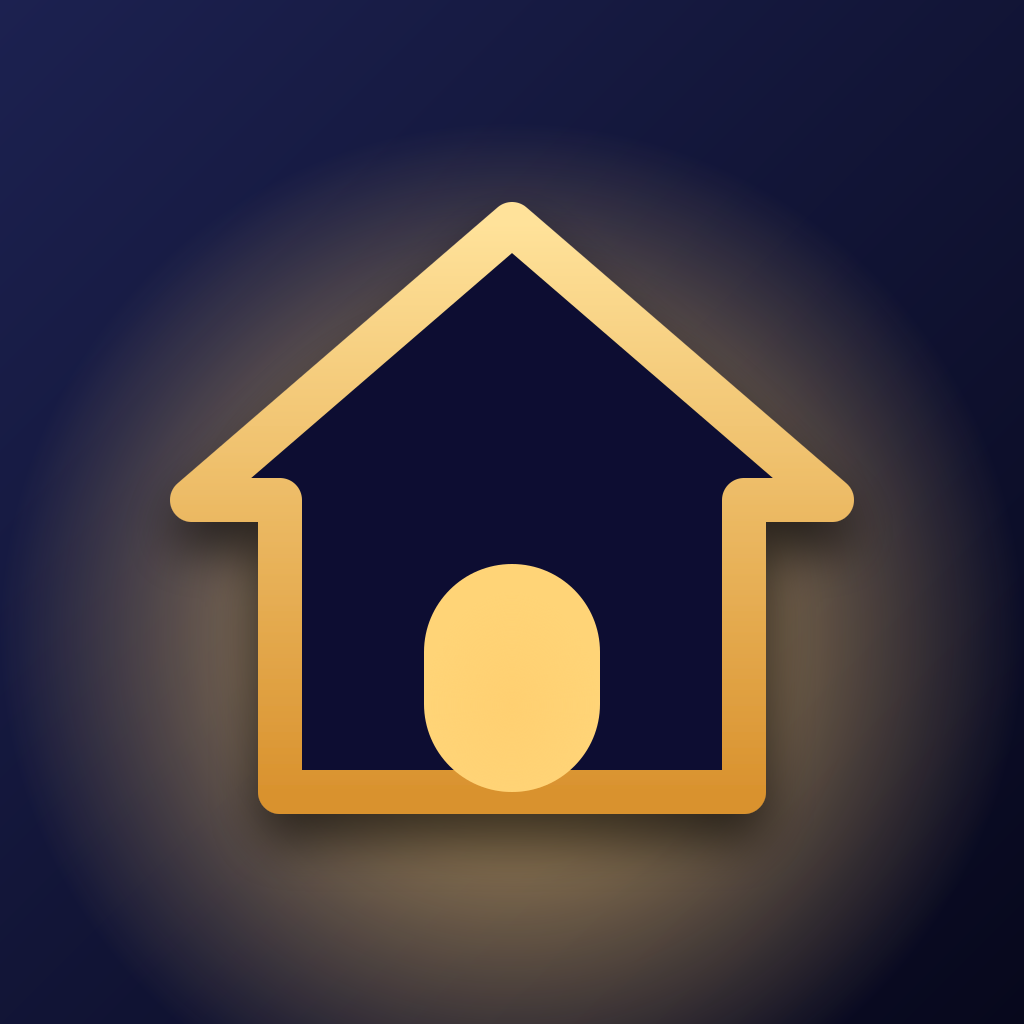
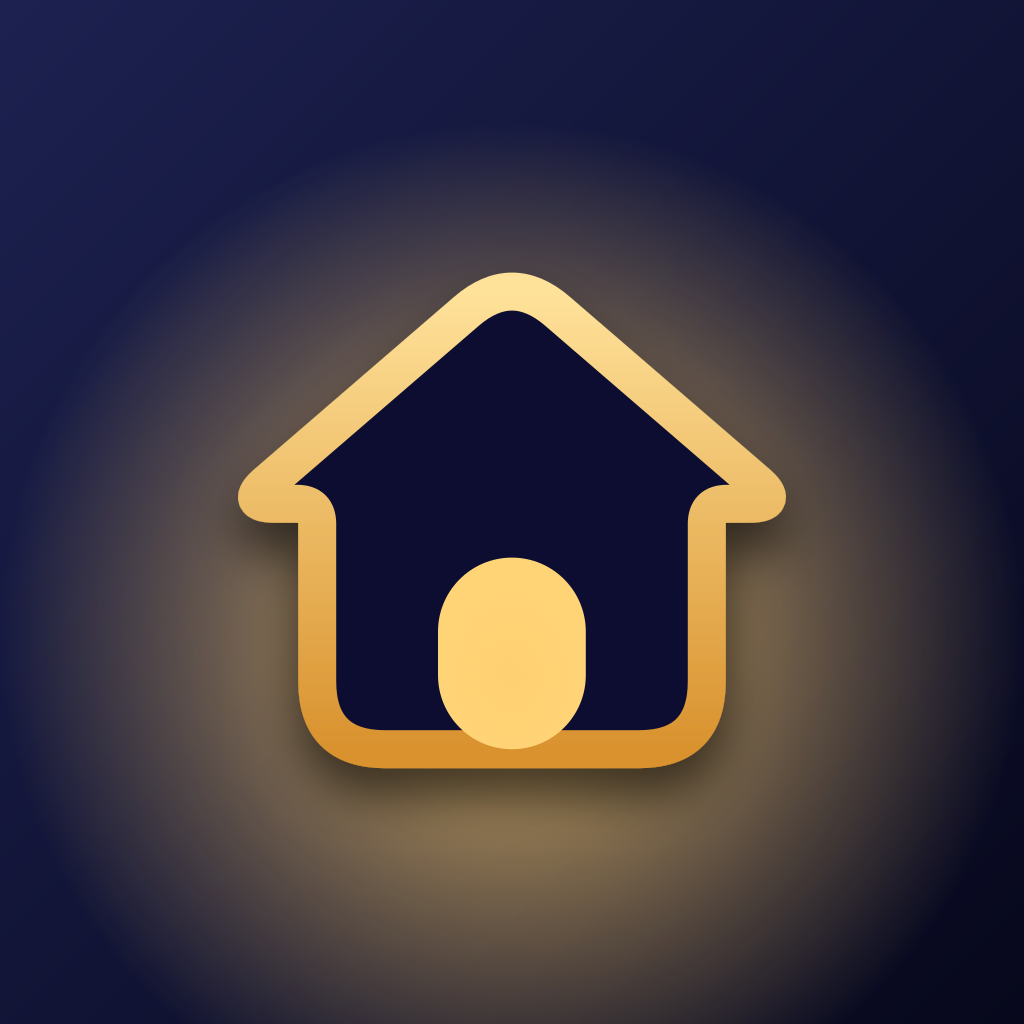
Иконка: домик меньше, углы скруглены

Changed region(s): [[0.1562, 0.1875, 0.8438, 0.8438], [0.4688, 0.5312, 0.5312, 0.5625]]

diff --git a/mobile/src/components/AppLogo/index.tsx b/mobile/src/components/AppLogo/index.tsx
@@ -20,8 +20,8 @@ export function AppLogo({ size = 72 }: { size?: number }) {
       </Defs>
       <Rect width="64" height="64" rx="14" fill="url(#logoBg)" />
       <Rect width="64" height="64" rx="14" fill="url(#logoGlow)" />
-      <Path d="M32 14 12 31.25H17.5V49.5H46.5V31.25H52Z" fill="#0d1030" stroke="url(#logoGold)" strokeWidth="2.75" strokeLinejoin="round" />
-      <Rect x="26.5" y="35.25" width="11" height="14.25" rx="5.5" fill="#ffd477" />
+      <Path d="M34.8 19.4Q32 17 29.2 19.4L16.7 30.2Q15.2 31.5 17.2 31.5L18.6 31.5Q19.8 31.5 19.8 32.7L19.8 42.6Q19.8 46.8 24.1 46.8L39.9 46.8Q44.2 46.8 44.2 42.6L44.2 32.7Q44.2 31.5 45.4 31.5L46.8 31.5Q48.8 31.5 47.3 30.2Z" fill="#0d1030" stroke="url(#logoGold)" strokeWidth="2.4" strokeLinejoin="round" />
+      <Rect x="27.4" y="34.9" width="9.2" height="12" rx="4.6" fill="#ffd477" />
     </Svg>
   )
 }
